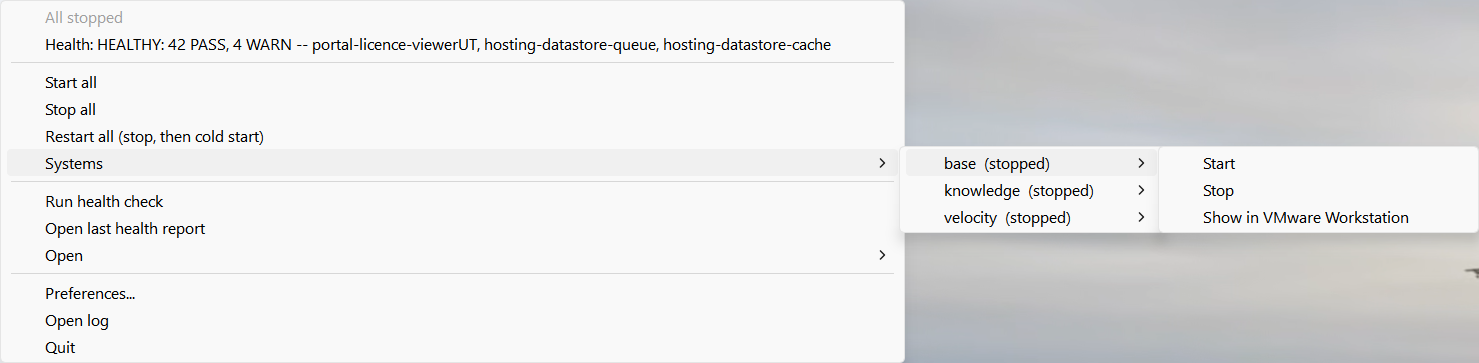
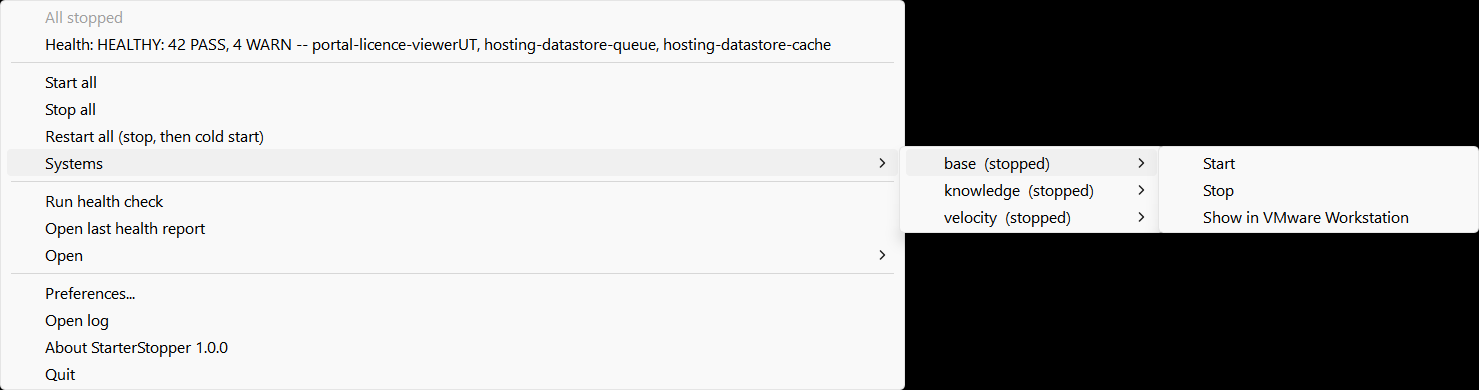
Release 1.0.0: versioning, changelog, CI and release workflows
- __version__ 1.0.0; --version; About item in the tray
- CHANGELOG.md (0.1.0 and 1.0.0), RELEASING.md, tools/release_notes.py
- GitHub Actions: ci (pytest on 3.9/3.13, config and leak checks) and
  tag-driven release (gitleaks, version check, tests, zip + sha256, release notes)
- .gitattributes keeps dev files out of release zips
- Fix: "Show in VMware Workstation" used a 3.10-only os.startfile argument

diff --git a/tools/release_notes.py b/tools/release_notes.py
@@ -1,0 +1,50 @@
+"""Release helpers used by the release workflow (and runnable locally).
+
+    python tools/release_notes.py check v1.0.0      # tag matches __version__ and CHANGELOG has the section
+    python tools/release_notes.py notes v1.0.0      # print that version's CHANGELOG section
+"""
+from __future__ import annotations
+
+import re
+import sys
+from pathlib import Path
+
+ROOT = Path(__file__).resolve().parents[1]
+
+
+def version() -> str:
+    text = (ROOT / "src" / "starterstopper" / "__init__.py").read_text(encoding="utf-8")
+    m = re.search(r'^__version__\s*=\s*"([^"]+)"', text, re.M)
+    if not m:
+        raise SystemExit("__version__ not found in src/starterstopper/__init__.py")
+    return m.group(1)
+
+
+def section(ver: str) -> str:
+    text = (ROOT / "CHANGELOG.md").read_text(encoding="utf-8")
+    m = re.search(rf"^## \[{re.escape(ver)}\][^\n]*\n(.*?)(?=^## \[|^\[[^\]]+\]: |\Z)", text, re.M | re.S)
+    if not m or not m.group(1).strip():
+        raise SystemExit(f"CHANGELOG.md has no (non-empty) section for [{ver}]")
+    return m.group(1).strip()
+
+
+def main(argv: list) -> int:
+    if len(argv) != 2 or argv[0] not in ("check", "notes"):
+        print(__doc__)
+        return 2
+    tag = argv[1]
+    if not re.fullmatch(r"v\d+\.\d+\.\d+", tag):
+        raise SystemExit(f"tag '{tag}' is not vMAJOR.MINOR.PATCH")
+    ver = tag[1:]
+    if argv[0] == "check":
+        if version() != ver:
+            raise SystemExit(f"tag {tag} does not match __version__ {version()}")
+        section(ver)
+        print(f"OK: {tag} matches __version__ and CHANGELOG.md")
+        return 0
+    print(section(ver))
+    return 0
+
+
+if __name__ == "__main__":
+    sys.exit(main(sys.argv[1:]))

diff --git a/src/starterstopper/tray.py b/src/starterstopper/tray.py
@@ -15,6 +15,7 @@ from typing import Callable, Dict, List, Optional
 import pystray
 from PIL import Image, ImageDraw
 
+from . import __version__
 from . import config as cfgmod
 from . import health, shortcuts
 from .config import APP_DIR, CONFIG_PATH, LOG_DIR, Config, ConfigError
@@ -23,6 +24,8 @@ from .providers import State
 from .providers.vmware_ws import hypervisor_present
 
 log = logging.getLogger(__name__)
+
+PROJECT_URL = "https://github.com/simongis/starterstopper"
 
 COLOURS = {
     "ready": "#2e8b57", "degraded": "#e08a00", "partial": "#e08a00", "stopped": "#c0392b",
@@ -331,6 +334,7 @@ class App:
             yield SEP
             yield I("Preferences...", self.prefs_cb)
             yield I("Open log", lambda: os.startfile(str(LOG_DIR / "starterstopper.log")))
+            yield I(f"About StarterStopper {__version__}", lambda: os.startfile(PROJECT_URL))
             yield I("Quit", self.quit_cb, enabled=lambda _i: not self.busy)
 
         return M(items)

diff --git a/src/starterstopper/__main__.py b/src/starterstopper/__main__.py
@@ -62,7 +62,9 @@ def _cli(op: str, names: list) -> int:
 
 
 def main(argv=None) -> int:
+    from . import __version__
     ap = argparse.ArgumentParser(prog="StarterStopper")
+    ap.add_argument("--version", action="version", version=f"StarterStopper {__version__}")
     ap.add_argument("--prefs", action="store_true", help="open Preferences")
     ap.add_argument("--cli", choices=["start", "stop", "health", "status"], help="run once in the console")
     ap.add_argument("names", nargs="*", help="system names (default: all enabled)")
@@ -74,6 +76,7 @@ def main(argv=None) -> int:
     _logging(console=bool(a.cli))
     if a.cli:
         return _cli(a.cli, a.names)
+    logging.getLogger(__name__).info("StarterStopper %s starting", __version__)
     if not _single_instance():
         ctypes.windll.user32.MessageBoxW(0, "StarterStopper is already running (see the system tray).",
                                          "StarterStopper", 0x40)

diff --git a/src/starterstopper/providers/vmware_ws.py b/src/starterstopper/providers/vmware_ws.py
@@ -4,6 +4,7 @@ from __future__ import annotations
 import logging
 import os
 import re
+import subprocess
 import time
 from pathlib import Path
 from typing import Dict, List, Set
@@ -106,7 +107,8 @@ class VMwareWorkstation(Provider):
     def show_in_workstation(self, system: System) -> None:
         """Open the VM in the Workstation UI (VMs started by vmrun don't appear in its library)."""
         exe = Path(self.vmrun).with_name("vmware.exe")
-        os.startfile(str(exe), arguments=f'-t "{expand(system.vmx, system)}"')  # type: ignore[call-arg]
+        subprocess.Popen([str(exe), "-t", expand(system.vmx, system)], close_fds=True,
+                         creationflags=getattr(subprocess, "DETACHED_PROCESS", 0x8))
 
 
 def hypervisor_present() -> bool:

diff --git a/src/starterstopper/__init__.py b/src/starterstopper/__init__.py
@@ -1,0 +1,3 @@
+"""StarterStopper: start, stop and health-check a home lab from the Windows system tray."""
+
+__version__ = "1.0.0"

diff --git a/CHANGELOG.md b/CHANGELOG.md
@@ -1,0 +1,51 @@
+# Changelog
+
+All notable changes to StarterStopper are recorded here. The format follows
+[Keep a Changelog](https://keepachangelog.com/en/1.1.0/), and versions follow
+[Semantic Versioning](https://semver.org/spec/v2.0.0.html).
+
+## [Unreleased]
+
+## [1.0.0] - 2026-11-01
+
+A rewrite. StarterStopper now manages a lab of VMs (and/or Windows services) instead of ArcGIS services installed
+on the host, and works for any environment through its own configuration.
+
+### Added
+- Config-driven engine: ordered start, reverse-order graceful stop, critical systems that abort the chain, and a
+  RAM/vCPU ceiling across running VMs.
+- Providers for VMware Workstation (via `vmrun`, no admin rights) and Windows services (status unelevated,
+  start/stop through one UAC prompt per action).
+- Readiness probes over HTTP(S) from the host or SSH in the guest. All must hold green for a settle window.
+- Hooks at `beforeStart`, `afterBoot`, `afterReady`, `beforeStop` and `afterStop`.
+- Health checks without an LLM: pluggable `json` / `exitcode` checks, a known-false-alarm hint table, and HTML
+  reports. Bundles `health/Test-ArcGISEnterprise.ps1`, a profile-driven ArcGIS Enterprise REST probe.
+- Suspended-VM handling: `onSuspended: coldBoot` resumes, shuts down cleanly and boots fresh. The tray warns when
+  it finds VMs suspended by host sleep.
+- Tray: icon states, per-system menu, Restart all, Cancel, links, last health result, notifications, an About
+  item and a Windows-hypervisor warning.
+- Preferences window (Systems, Health, General, Links) with probe testing, import and export.
+- Command line: `--cli start|stop|health|status`, `--version`.
+- `install.ps1` / `uninstall.ps1`: Startup-folder shortcut with `pythonw`, so no console window and no admin.
+- User guide with screenshots, MIT licence, contributing guide.
+- Release control: CI tests, gitleaks on every push, a tag-driven GitHub Release workflow, and a pre-push leak
+  check (gitleaks plus a private deny-list) for the public repository.
+
+### Changed
+- Configuration lives in `%APPDATA%\StarterStopper\config.json`, never in the repository. Logs and reports live in
+  `%LOCALAPPDATA%\StarterStopper\`.
+- Idle footprint is about 40 MB, with one batched status query a minute.
+
+### Removed
+- The hard-coded list of ArcGIS Enterprise and Velocity Windows services and fixed start-up sleeps. The same
+  setup can be described as a `windows-service` system with readiness probes.
+- `launch.bat` and the requirement to run as administrator.
+
+## [0.1.0] - 2026-04-11
+
+First version: a Windows tray app that started and stopped ArcGIS Enterprise and ArcGIS Velocity Enterprise
+Windows services on the local machine, in a fixed order with fixed waits. Required administrator rights.
+
+[Unreleased]: https://github.com/simongis/starterstopper/compare/v1.0.0...HEAD
+[1.0.0]: https://github.com/simongis/starterstopper/compare/v0.1.0...v1.0.0
+[0.1.0]: https://github.com/simongis/starterstopper/releases/tag/v0.1.0

diff --git a/RELEASING.md b/RELEASING.md
@@ -1,0 +1,50 @@
+# Releasing
+
+StarterStopper uses [Semantic Versioning](https://semver.org/): `MAJOR.MINOR.PATCH`.
+
+- **PATCH** (1.0.1): bug fixes only.
+- **MINOR** (1.1.0): new features that don't break existing configs (a new provider, a new setting with a default).
+- **MAJOR** (2.0.0): anything that breaks an existing `config.json` or changes behaviour people rely on.
+
+The version lives in one place: `src/starterstopper/__init__.py` (`__version__`). Changes are recorded in
+`CHANGELOG.md` as they are made, under `## [Unreleased]`.
+
+## Branches and remotes
+
+- Day-to-day work happens on branches pushed to the private mirror (`origin`).
+- `main` on GitHub (`github`) is the public, releasable line. Only merge to `main` what you would release.
+- The pre-push hook (`git config core.hooksPath .githooks`) runs gitleaks and the private deny-list check on
+  everything pushed to GitHub. CI runs the tests and gitleaks again on GitHub.
+
+## Cutting a release
+
+1. Move the `## [Unreleased]` entries into a new `## [X.Y.Z] - YYYY-MM-DD` section, and update the compare links at
+   the bottom of `CHANGELOG.md`.
+2. Set `__version__ = "X.Y.Z"` in `src/starterstopper/__init__.py`.
+3. Check locally:
+
+   ```powershell
+   python -m pytest -q
+   python tools/release_notes.py check vX.Y.Z
+   ```
+
+4. Commit (`Release vX.Y.Z`), merge to `main`, and tag:
+
+   ```powershell
+   git tag -a vX.Y.Z -m "StarterStopper X.Y.Z"
+   git push github main vX.Y.Z
+   git push origin main vX.Y.Z
+   ```
+
+5. The **release** workflow then:
+   1. Runs gitleaks.
+   2. Checks that the tag matches `__version__` and `CHANGELOG.md`.
+   3. Runs the tests and the leak check.
+   4. Builds `starterstopper-X.Y.Z.zip` with a SHA-256 checksum.
+   5. Publishes a GitHub Release whose notes are the changelog section.
+
+If the workflow fails, fix the problem, delete the tag (`git push github :refs/tags/vX.Y.Z`,
+`git tag -d vX.Y.Z`), and tag again. Never move a tag once a release has been published; release a new patch
+version instead.
+
+The release zip leaves out development files (tests, workflows, hooks); see `.gitattributes`.
